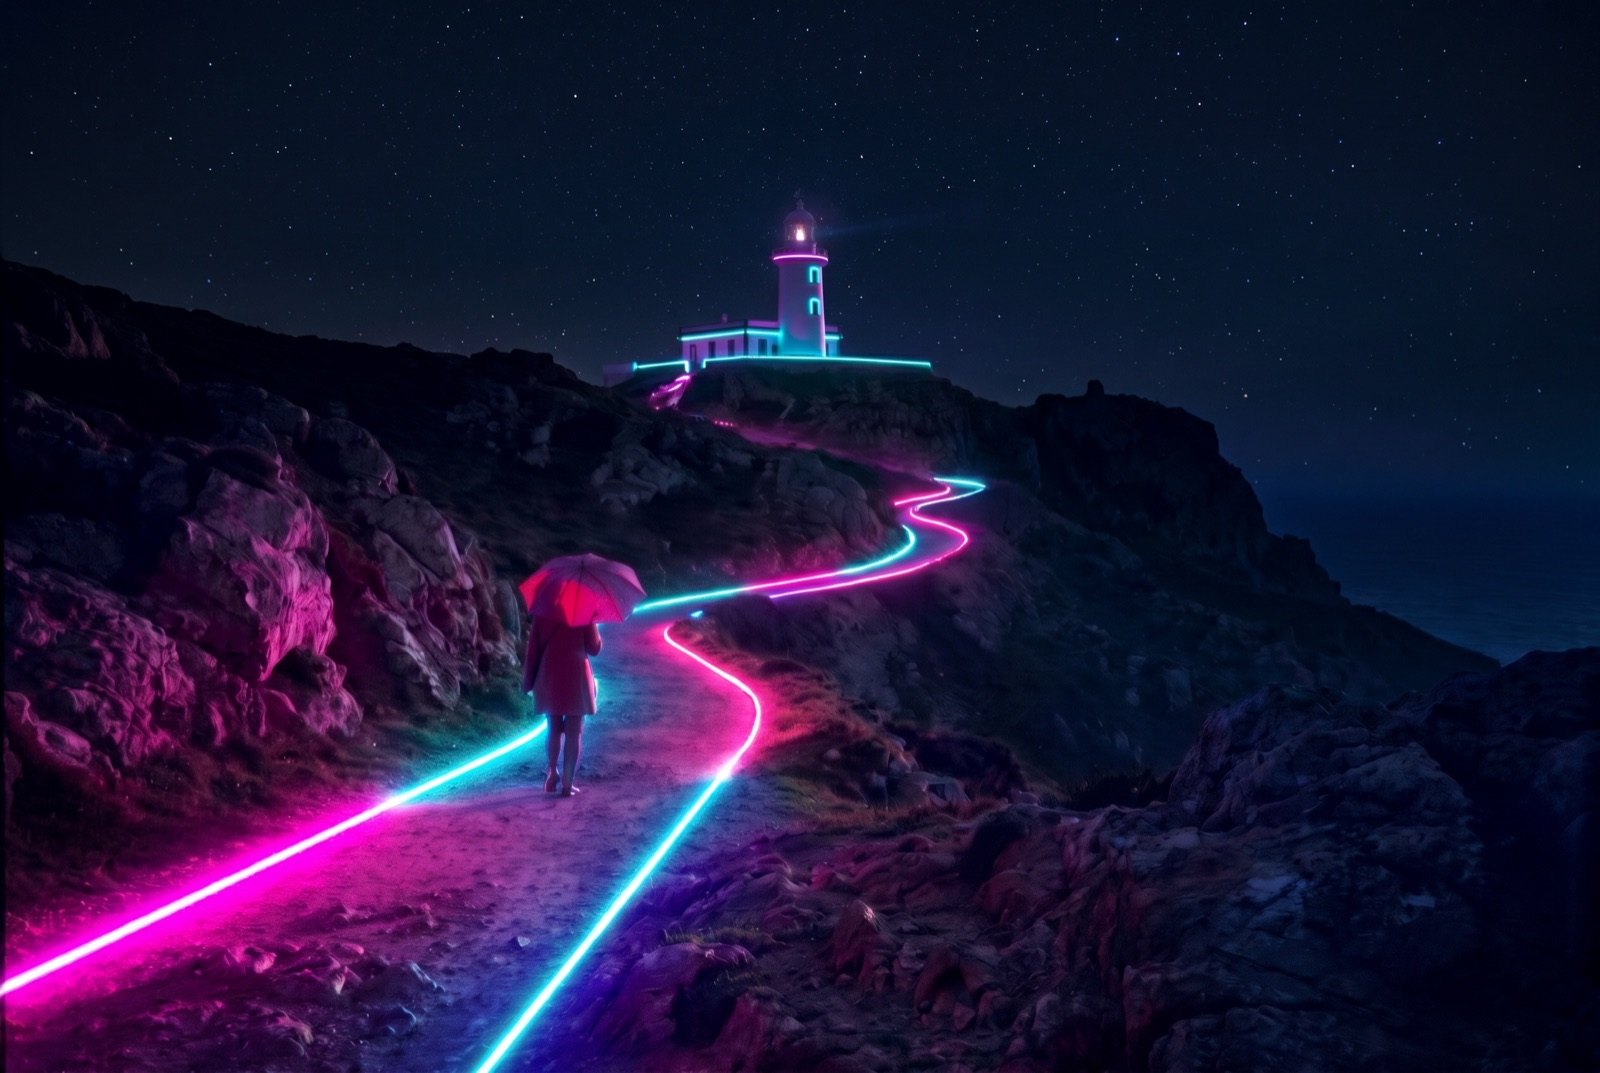
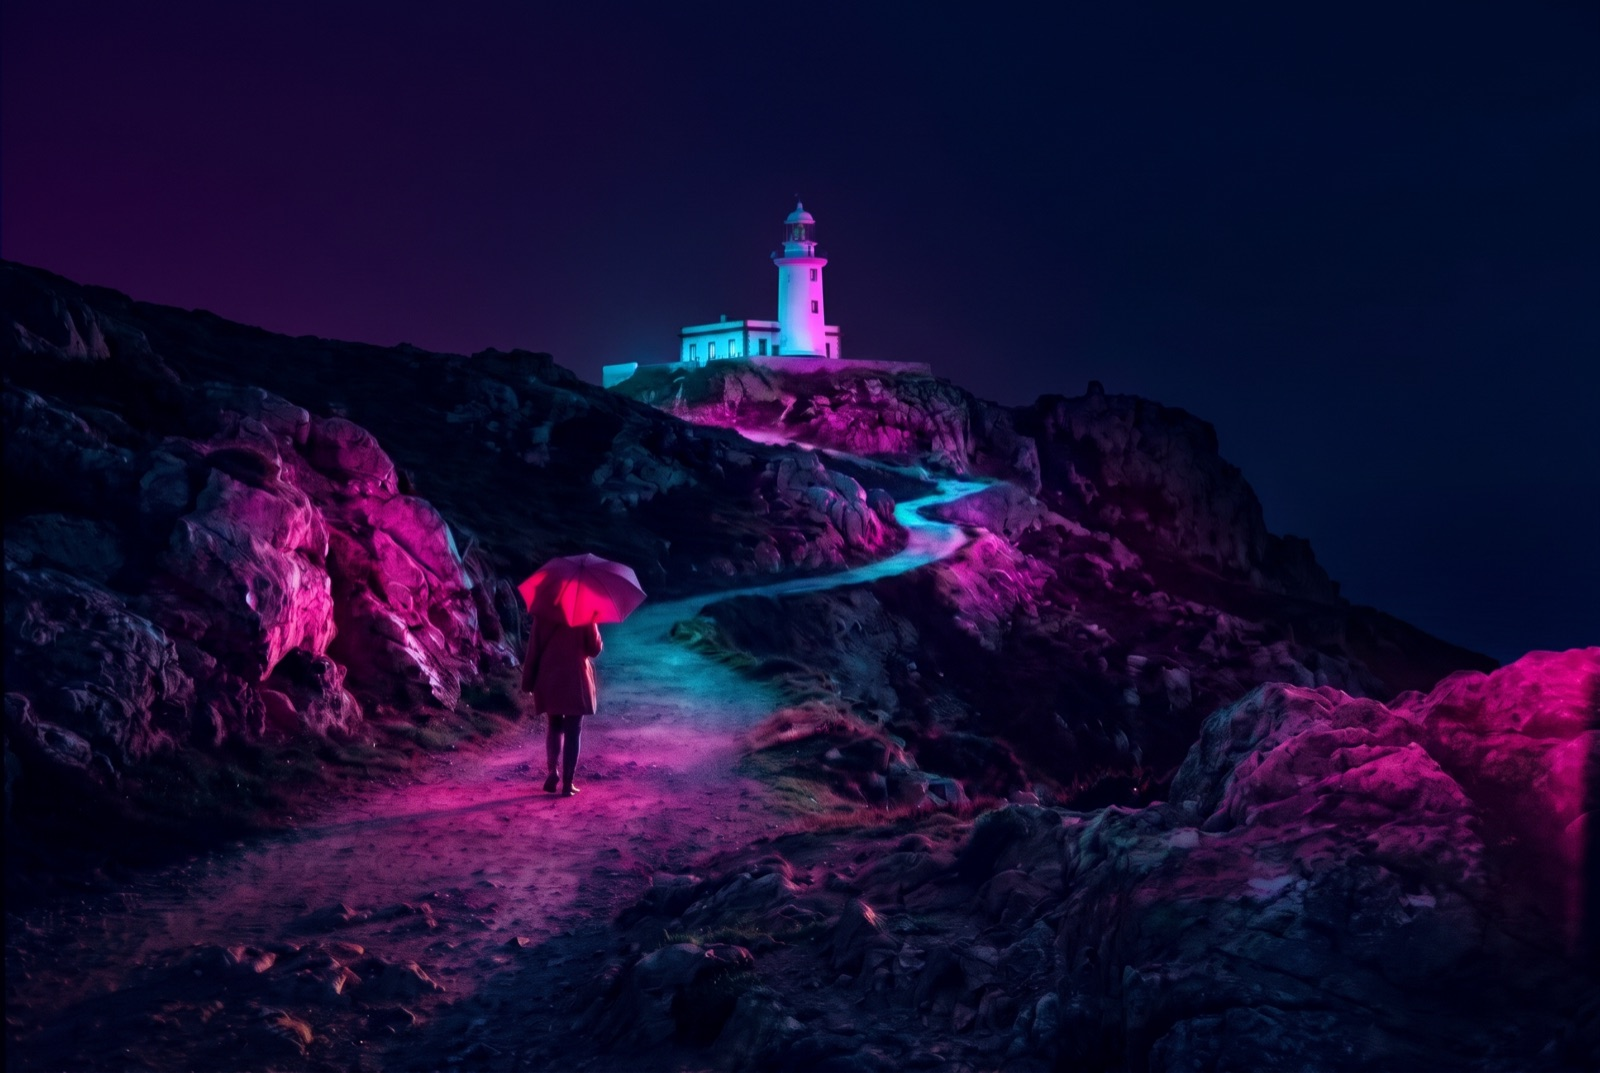
fix(website): Sci-Fi Cinema as a pure relight, cache-busting for script and stylesheet

Changed region(s): [[0.0, 0.1845, 1.0, 1.0], [0.875, 0.8304, 0.9062, 0.8611], [0.6875, 0.9226, 0.7188, 0.9534]]

diff --git a/website/index.html b/website/index.html
@@ -12,7 +12,7 @@
     <link rel="icon" type="image/png" href="assets/img/favicon-64.png">
     <link rel="apple-touch-icon" href="assets/img/apple-touch-icon.png">
     <link rel="preload" href="assets/fonts/space-grotesk-700.woff2" as="font" type="font/woff2" crossorigin>
-    <link rel="stylesheet" href="assets/css/site.css">
+    <link rel="stylesheet" href="assets/css/site.css?v=20261113b">
 </head>
 <body>
 
@@ -254,6 +254,6 @@
     </div>
 </footer>
 
-<script src="assets/js/site.js" defer></script>
+<script src="assets/js/site.js?v=20261113b" defer></script>
 </body>
 </html>

diff --git a/website/imprint.html b/website/imprint.html
@@ -7,7 +7,7 @@
     <meta name="robots" content="noindex">
     <meta name="theme-color" content="#0d1a1e">
     <link rel="icon" type="image/png" href="assets/img/favicon-64.png">
-    <link rel="stylesheet" href="assets/css/site.css">
+    <link rel="stylesheet" href="assets/css/site.css?v=20261113b">
 </head>
 <body>
 
@@ -108,6 +108,6 @@
     </div>
 </footer>
 
-<script src="assets/js/site.js" defer></script>
+<script src="assets/js/site.js?v=20261113b" defer></script>
 </body>
 </html>

diff --git a/website/privacy.html b/website/privacy.html
@@ -7,7 +7,7 @@
     <meta name="robots" content="noindex">
     <meta name="theme-color" content="#0d1a1e">
     <link rel="icon" type="image/png" href="assets/img/favicon-64.png">
-    <link rel="stylesheet" href="assets/css/site.css">
+    <link rel="stylesheet" href="assets/css/site.css?v=20261113b">
 </head>
 <body>
 
@@ -167,6 +167,6 @@
     </div>
 </footer>
 
-<script src="assets/js/site.js" defer></script>
+<script src="assets/js/site.js?v=20261113b" defer></script>
 </body>
 </html>
